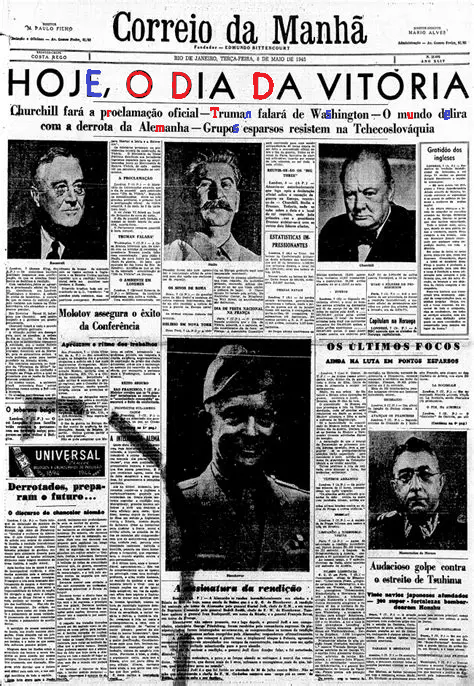
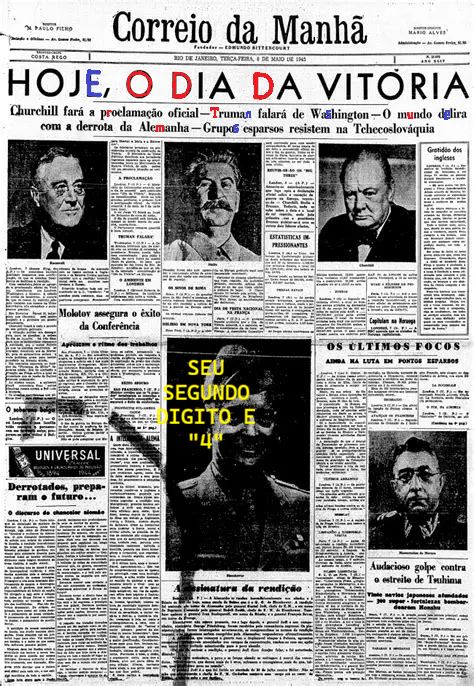
FELL

Changed region(s): [[0.3249, 0.5204, 0.5316, 0.6735]]

diff --git a/spectre2.html b/spectre2.html
@@ -183,7 +183,9 @@
 
   </div>
 </div>
+
   <div class="container">
+    
     <div class="image-slot">
         <img src="./images/decod image/jornal.png" alt="img">
     </div>
@@ -207,7 +209,7 @@ function verificar() {
   const resposta = document.getElementById("resposta");
 
   if (entrada === "BERNA") {
-    resposta.textContent = "8";
+    resposta.textContent = "Seu ultimo digito 8";
   } else {
     resposta.textContent = "> Comando inválido.";
   }
